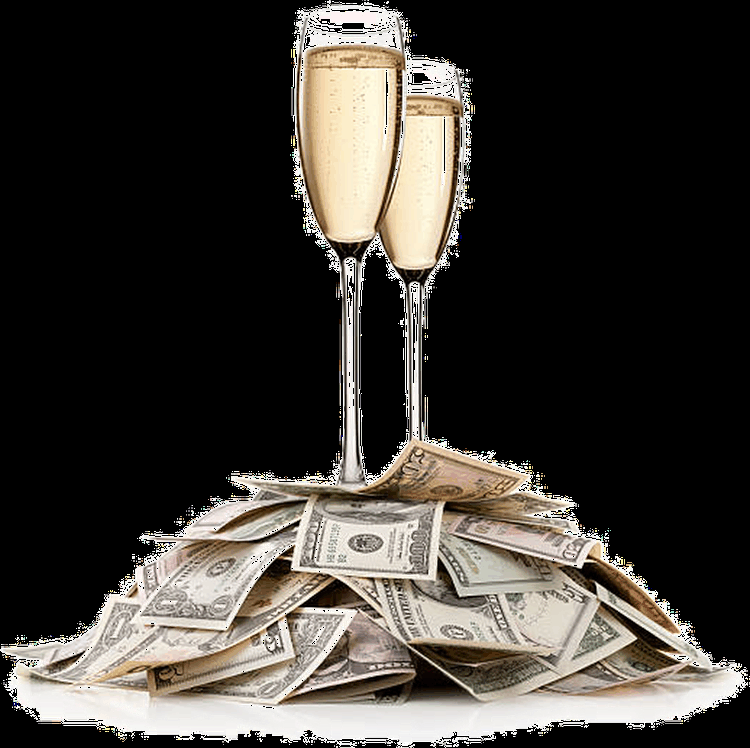
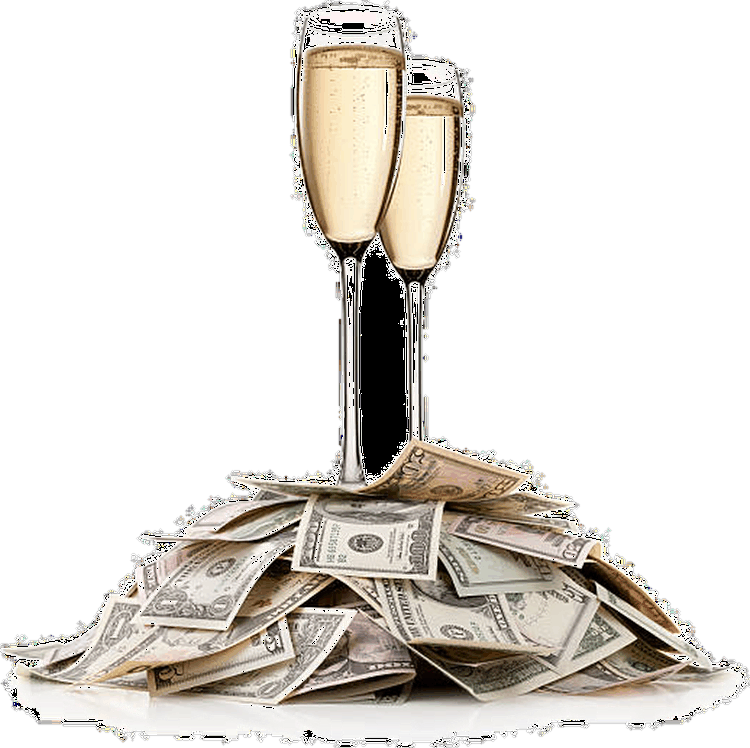
Update menu assets and app changes

diff --git a/app.py b/app.py
@@ -24,6 +24,8 @@ from db import (
 )
 
 app = Flask(__name__)
+# Cache static assets (menu images, CSS, JS) for 2 hours during event operation.
+app.config["SEND_FILE_MAX_AGE_DEFAULT"] = 7200
 app.secret_key = os.environ.get('SECRET_KEY', 'sommelier-dev-fallback-key-change-in-prod')
 if not os.environ.get('SECRET_KEY'):
     import logging